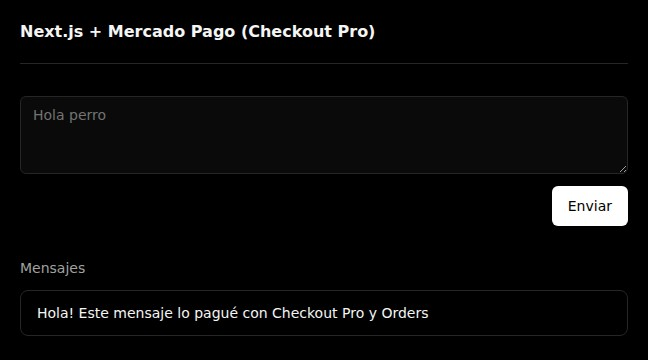
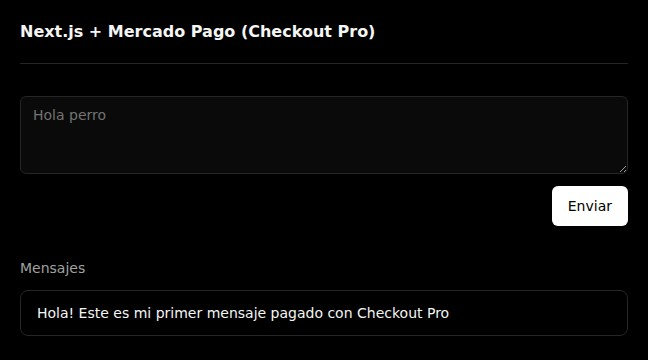
docs(checkout-pro): hablar de pagos en vez de orders
Orders es un detalle de implementación: los textos y comentarios hablan del pago y solo nombran Order donde aparece en el código o en el panel.

Changed region(s): [[0.1543, 0.8556, 0.7099, 0.8861]]

diff --git a/integraciones/checkout-pro/src/api.ts b/integraciones/checkout-pro/src/api.ts
@@ -17,11 +17,11 @@ const api = {
       cacheLife("max");
       cacheTag("messages");
 
-      // La búsqueda de orders acepta un rango de fechas de hasta un mes, así que buscamos las de los últimos 30 días
+      // La búsqueda acepta un rango de fechas de hasta un mes, así que buscamos los pagos de los últimos 30 días
       const end = new Date();
       const begin = new Date(end.getTime() - 30 * 24 * 60 * 60 * 1000);
 
-      // Mercado Pago es nuestra base de datos: cada mensaje es una order procesada (pagada) con el texto en su `description`
+      // Mercado Pago es nuestra base de datos: cada mensaje es un pago procesado (aprobado) con el texto en su `description`
       const {data = []} = await new Order(mercadopago).search({
         options: {
           external_reference: "message",
@@ -31,17 +31,17 @@ const api = {
         },
       });
 
-      // Devolvemos las orders como mensajes
+      // Devolvemos los pagos como mensajes
       return data.map((order) => ({id: order.id!, text: order.description!}));
     },
     async submit(text: Message["text"]) {
-      // Creamos la order incluyendo el monto, los items y la descripción. La información de `items` es standard de Mercado Pago. Orders no tiene `metadata`, así que guardamos el texto del mensaje en `description`.
+      // Creamos el pago incluyendo el monto, los items y la descripción. La información de `items` es standard de Mercado Pago. El texto del mensaje lo guardamos en `description`.
       const order = await new Order(mercadopago).create({
         body: {
-          // Checkout Pro usa orders `online` procesadas en modo `manual`: el comprador paga en Mercado Pago
+          // En Checkout Pro el pago es `online` y se procesa en modo `manual`: el comprador paga en Mercado Pago
           type: "online",
           processing_mode: "manual",
-          // Los montos de Orders son strings
+          // Los montos van como strings
           total_amount: "100.00",
           items: [
             {
@@ -52,11 +52,11 @@ const api = {
             },
           ],
           description: text,
-          // Marcamos la order como mensaje para poder buscarla después
+          // Marcamos el pago como mensaje para poder buscarlo después
           external_reference: "message",
           config: {
             online: {
-              // Cuando el pago se aprueba, Mercado Pago vuelve solo a nuestra aplicación, a la ruta que verifica la order
+              // Cuando el pago se aprueba, Mercado Pago vuelve solo a nuestra aplicación, a la ruta que verifica el pago
               success_url: `${process.env.APP_URL}/api/mercadopago`,
               auto_return: "approved",
             },

diff --git a/integraciones/checkout-pro/src/app/api/mercadopago/route.ts b/integraciones/checkout-pro/src/app/api/mercadopago/route.ts
@@ -5,7 +5,7 @@ import {type NextRequest, NextResponse} from "next/server";
 import {mercadopago} from "@/api";
 
 async function verify(id: string) {
-  // Obtenemos la order desde Mercado Pago para no confiar en lo que nos llega en la petición
+  // Obtenemos el pago desde Mercado Pago para no confiar en lo que nos llega en la petición
   const order = await new Order(mercadopago).get({id});
 
   // Si se procesó (el pago se aprobó), invalidamos los mensajes para mostrar el nuevo mensaje
@@ -14,7 +14,7 @@ async function verify(id: string) {
   }
 }
 
-// Mercado Pago redirige al comprador acá cuando el pago se aprueba, con el id de la order en `order_id`
+// Mercado Pago redirige al comprador acá cuando el pago se aprueba, con el id del pago en `order_id`
 export async function GET(request: NextRequest) {
   const id = request.nextUrl.searchParams.get("order_id");
 
@@ -31,7 +31,7 @@ export async function POST(request: Request) {
   // Obtenemos el cuerpo de la petición que incluye información sobre la notificación
   const body: {data?: {id: string}; type?: string} = await request.json();
 
-  // Solo nos interesan las notificaciones de orders, ignoramos el resto
+  // Solo nos interesan las notificaciones de pagos (`order`), ignoramos el resto
   if (body.type === "order" && body.data?.id) {
     await verify(body.data.id);
   }

diff --git a/integraciones/checkout-pro/README.md b/integraciones/checkout-pro/README.md
@@ -21,12 +21,12 @@ El usuario de la compradora también está en el [panel de desarrolladores](http
 [![Integrar pagos con Mercado Pago a una aplicación Next.js](https://img.youtube.com/vi/BUHUW7tAr_Y/maxresdefault.jpg)](https://www.youtube.com/watch?v=BUHUW7tAr_Y)
 
 > [!NOTE]
-> El video usa la API de Preferences, que Mercado Pago va a dar de baja. Este documento ya usa la API de Orders, así que el código cambia un poco, pero el flujo es el mismo.
+> El video usa una versión anterior de la API de Mercado Pago, así que el código cambia un poco, pero el flujo es el mismo.
 
 ## Índice
 
 1. [Revisando nuestra aplicación](#revisando-nuestra-aplicación)
-2. [Crear una order de pago](#crear-una-order-de-pago)
+2. [Crear el pago](#crear-el-pago)
 3. [Volver a la aplicación y recibir notificaciones](#volver-a-la-aplicación-y-recibir-notificaciones)
 4. [Verificar la autenticidad del pago](#verificar-la-autenticidad-del-pago)
 5. [Listar los mensajes](#listar-los-mensajes)
@@ -75,21 +75,21 @@ export default async function HomePage() {
 }
 ```
 
-## Crear una order de pago
+## Crear el pago
 
-Dentro de `/src/api.ts`, la función `submit` en `message` se encarga de crear una order de pago y devolver el checkout url (url de pago):
+Dentro de `/src/api.ts`, la función `submit` en `message` se encarga de crear el pago en Mercado Pago y devolver la URL del checkout (url de pago):
 
 ```ts
 const api = {
   message: {
     async submit(text: Message["text"]) {
-      // Creamos la order incluyendo el monto, los items y la descripción. La información de `items` es standard de Mercado Pago. Orders no tiene `metadata`, así que guardamos el texto del mensaje en `description`.
+      // Creamos el pago incluyendo el monto, los items y la descripción. La información de `items` es standard de Mercado Pago. El texto del mensaje lo guardamos en `description`.
       const order = await new Order(mercadopago).create({
         body: {
-          // Checkout Pro usa orders `online` procesadas en modo `manual`: el comprador paga en Mercado Pago
+          // En Checkout Pro el pago es `online` y se procesa en modo `manual`: el comprador paga en Mercado Pago
           type: "online",
           processing_mode: "manual",
-          // Los montos de Orders son strings
+          // Los montos van como strings
           total_amount: "100.00",
           items: [
             {
@@ -100,11 +100,11 @@ const api = {
             },
           ],
           description: text,
-          // Marcamos la order como mensaje para poder buscarla después
+          // Marcamos el pago como mensaje para poder buscarlo después
           external_reference: "message",
           config: {
             online: {
-              // Cuando el pago se aprueba, Mercado Pago vuelve solo a nuestra aplicación, a la ruta que verifica la order
+              // Cuando el pago se aprueba, Mercado Pago vuelve solo a nuestra aplicación, a la ruta que verifica el pago
               success_url: `${process.env.APP_URL}/api/mercadopago`,
               auto_return: "approved",
             },
@@ -119,13 +119,13 @@ const api = {
 }
 ```
 
-Podemos pensar a la order como un objeto que representa una orden de compra: algo que un usuario quiere comprar. Para Checkout Pro siempre es `type: "online"` con `processing_mode: "manual"`, y `total_amount` tiene que ser igual a la suma de los items.
+Podemos pensar al pago (Mercado Pago lo llama `Order`) como un objeto que representa una orden de compra: algo que un usuario quiere comprar. `total_amount` tiene que ser igual a la suma de los items.
 
-Orders no tiene un campo `metadata` como tenían las preferencias, así que guardamos el texto del mensaje en `description`. `description` acepta hasta 150 caracteres, por eso el `textarea` del formulario tiene `maxLength={150}`.
+El texto del mensaje lo guardamos en `description`, que acepta hasta 150 caracteres. Por eso el `textarea` del formulario tiene `maxLength={150}`.
 
 Con `auto_return: "approved"` Mercado Pago vuelve solo a nuestra aplicación cuando el pago se aprueba. Para eso necesita saber a dónde volver, así que también definimos `success_url`.
 
-Hay varias propiedades más que podemos agregar a la order. Datos del comprador, el vencimiento, los medios de pago permitidos, etc. Podés ver más [acá](https://www.mercadopago.com.ar/developers/es/reference/online-payments/checkout-pro/create-order/post).
+Hay varias propiedades más que podemos agregar al pago. Datos del comprador, el vencimiento, los medios de pago permitidos, etc. Podés ver más [acá](https://www.mercadopago.com.ar/developers/es/reference/online-payments/checkout-pro/create-order/post).
 
 ## Volver a la aplicación y recibir notificaciones
 
@@ -139,7 +139,7 @@ import {type NextRequest, NextResponse} from "next/server";
 import {mercadopago} from "@/api";
 
 async function verify(id: string) {
-  // Obtenemos la order desde Mercado Pago para no confiar en lo que nos llega en la petición
+  // Obtenemos el pago desde Mercado Pago para no confiar en lo que nos llega en la petición
   const order = await new Order(mercadopago).get({id});
 
   // Si se procesó (el pago se aprobó), invalidamos los mensajes para mostrar el nuevo mensaje
@@ -148,7 +148,7 @@ async function verify(id: string) {
   }
 }
 
-// Mercado Pago redirige al comprador acá cuando el pago se aprueba, con el id de la order en `order_id`
+// Mercado Pago redirige al comprador acá cuando el pago se aprueba, con el id del pago en `order_id`
 export async function GET(request: NextRequest) {
   const id = request.nextUrl.searchParams.get("order_id");
 
@@ -165,7 +165,7 @@ export async function POST(request: Request) {
   // Obtenemos el cuerpo de la petición que incluye información sobre la notificación
   const body: {data?: {id: string}; type?: string} = await request.json();
 
-  // Solo nos interesan las notificaciones de orders, ignoramos el resto
+  // Solo nos interesan las notificaciones de pagos (`order`), ignoramos el resto
   if (body.type === "order" && body.data?.id) {
     await verify(body.data.id);
   }
@@ -175,12 +175,12 @@ export async function POST(request: Request) {
 }
 ```
 
-Cuando el pago se aprueba, Mercado Pago redirige al comprador a `success_url` y le agrega a la URL el id de la order en `order_id`. Es lo primero que pasa después de pagar, así que el mensaje ya aparece cuando el comprador vuelve a la página de inicio.
+Cuando el pago se aprueba, Mercado Pago redirige al comprador a `success_url` y le agrega a la URL el id del pago en `order_id`. Es lo primero que pasa después de pagar, así que el mensaje ya aparece cuando el comprador vuelve a la página de inicio.
 
-Pero si el comprador cierra la pestaña antes de volver, nunca nos enteramos. Para eso está el webhook: Mercado Pago le avisa a nuestro servidor de cada cambio en la order, aunque el comprador no vuelva. Con Orders, el webhook se [configura en el panel](../../configuracion/webhook/README.md) con el evento `Order (Mercado Pago)` y la URL `<APP_URL>/api/mercadopago`.
+Pero si el comprador cierra la pestaña antes de volver, nunca nos enteramos. Para eso está el webhook: Mercado Pago le avisa a nuestro servidor de cada cambio en el pago, aunque el comprador no vuelva. El webhook se [configura en el panel](../../configuracion/webhook/README.md) con el evento `Order (Mercado Pago)` y la URL `<APP_URL>/api/mercadopago`.
 
 > [!IMPORTANT]
-> Las notificaciones llegan a la aplicación dueña de las credenciales con las que creamos la order, no a la que creaste vos. Las credenciales de prueba de Checkout Pro son las credenciales de producción de una aplicación `TestApp-…` que Mercado Pago crea en la cuenta vendedora de prueba, así que el webhook se configura en esa aplicación. Si no lo configurás, el mensaje igual aparece gracias a la vuelta del comprador.
+> Las notificaciones llegan a la aplicación dueña de las credenciales con las que creamos el pago, no a la que creaste vos. Las credenciales de prueba de Checkout Pro son las credenciales de producción de una aplicación `TestApp-…` que Mercado Pago crea en la cuenta vendedora de prueba, así que el webhook se configura en esa aplicación. Si no lo configurás, el mensaje igual aparece gracias a la vuelta del comprador.
 
 Para configurarlo con el MCP necesitás `mercadopago-mcp-vendedor` [autorizado con la cuenta vendedora de prueba](../../configuracion/mcp/README.md#autorizar-la-cuenta-vendedora-de-prueba). Después copiá este prompt en tu agente:
 
@@ -195,16 +195,16 @@ A mano, iniciá sesión en el [panel de desarrolladores](https://www.mercadopago
 
 ## Verificar la autenticidad del pago
 
-Tanto la vuelta del comprador como el webhook nos dan el ID de una order, pero cualquiera podría visitar esa URL o hacer un POST con un ID inventado. Por eso no confiamos en lo que nos llega: `verify` obtiene la order desde Mercado Pago con nuestras credenciales y solo si su `status` es `processed` (el pago se aprobó y se acreditó) invalida el tag `messages` para que se muestren los mensajes actualizados.
+Tanto la vuelta del comprador como el webhook nos dan el ID de un pago, pero cualquiera podría visitar esa URL o hacer un POST con un ID inventado. Por eso no confiamos en lo que nos llega: `verify` obtiene el pago desde Mercado Pago con nuestras credenciales y solo si su `status` es `processed` (el pago se aprobó y se acreditó) invalida el tag `messages` para que se muestren los mensajes actualizados.
 
 > [!NOTE]
 > La página es estática (`ensureStatic = "navigation"` hace que el build falle si algo la vuelve dinámica). `api.message.list` usa `"use cache"` con el tag `messages`. Como la verificación pasa en un Route Handler usamos `revalidateTag` con `{expire: 0}` para que la próxima visita ya vea el mensaje nuevo.
 
-De esta manera nos aseguramos de que la order exista y haya sido pagada.
+De esta manera nos aseguramos de que el pago exista y haya sido aprobado.
 
 ## Listar los mensajes
 
-No tenemos una base de datos: Mercado Pago ya guarda cada order con el texto en su `description`. Dentro de `/src/api.ts`, la función `list` en `message` busca las orders procesadas marcadas como mensaje (por eso usamos `external_reference: "message"` en la order) y las devuelve como mensajes:
+No tenemos una base de datos: Mercado Pago ya guarda cada pago con el texto en su `description`. Dentro de `/src/api.ts`, la función `list` en `message` busca los pagos procesados marcados como mensaje (por eso usamos `external_reference: "message"` al crearlos) y los devuelve como mensajes:
 
 ```ts
 const api = {
@@ -216,11 +216,11 @@ const api = {
       cacheLife("max");
       cacheTag("messages");
 
-      // La búsqueda de orders acepta un rango de fechas de hasta un mes, así que buscamos las de los últimos 30 días
+      // La búsqueda acepta un rango de fechas de hasta un mes, así que buscamos los pagos de los últimos 30 días
       const end = new Date();
       const begin = new Date(end.getTime() - 30 * 24 * 60 * 60 * 1000);
 
-      // Mercado Pago es nuestra base de datos: cada mensaje es una order procesada (pagada) con el texto en su `description`
+      // Mercado Pago es nuestra base de datos: cada mensaje es un pago procesado (aprobado) con el texto en su `description`
       const {data = []} = await new Order(mercadopago).search({
         options: {
           external_reference: "message",
@@ -230,16 +230,16 @@ const api = {
         },
       });
 
-      // Devolvemos las orders como mensajes
+      // Devolvemos los pagos como mensajes
       return data.map((order) => ({id: order.id!, text: order.description!}));
     },
   },
 };
 ```
 
-La búsqueda de orders pide un rango de fechas (`begin_date` y `end_date`) de hasta un mes, así que el muro muestra los mensajes de los últimos 30 días. Como `list` está cacheada, las fechas se calculan cada vez que invalidamos el tag `messages`, no en cada visita.
+La búsqueda pide un rango de fechas (`begin_date` y `end_date`) de hasta un mes, así que el muro muestra los mensajes de los últimos 30 días. Como `list` está cacheada, las fechas se calculan cada vez que invalidamos el tag `messages`, no en cada visita.
 
-Como cada mensaje es una order, tampoco se pueden duplicar: aunque Mercado Pago nos notifique varias veces la misma order, la búsqueda la devuelve una sola vez.
+Como cada mensaje es un pago, tampoco se pueden duplicar: aunque Mercado Pago nos notifique varias veces el mismo pago, la búsqueda lo devuelve una sola vez.
 
 En una aplicación real deberíamos verificar la firma secreta de las notificaciones, devolver errores más descriptivos y más, pero por simplicidad y tiempo te voy a dejar esa tarea a vos, podés ver más [acá](https://www.mercadopago.com.ar/developers/es/docs/checkout-pro-orders/notifications).
 
@@ -249,11 +249,11 @@ Ahora vamos a intentar de hacer el flujo completo de agregar un mensaje a nuestr
 
 En `E-mail para comprobante` poné el e-mail de la cuenta compradora de prueba. Si su usuario es `TESTUSER123456`, su e-mail es `test_user_123456@testuser.com`. Con cualquier otro e-mail Mercado Pago rechaza el pago con "Una de las partes con la que intentás hacer el pago es de prueba", porque la vendedora es de prueba y el comprador no.
 
-Cuando el pago se aprueba, Mercado Pago nos devuelve solo a la aplicación, que verifica la order y ya muestra el mensaje.
+Cuando el pago se aprueba, Mercado Pago nos devuelve solo a la aplicación, que verifica el pago y ya muestra el mensaje.
 
 ![image](./screenshots/mensaje-pagado.jpg)
 
-Excelente, nuestro pago fue aprobado, la order fue verificada y nuestro mensaje aparece en la lista ✨.
+Excelente, nuestro pago fue aprobado, lo verificamos y nuestro mensaje aparece en la lista ✨.
 
 ---
 

diff --git a/README.md b/README.md
@@ -7,7 +7,7 @@ En este respositorio vamos a aprender a integrar Mercado Pago en una aplicación
 Vamos a tener diferentes carpetas y aplicaciones para cada tipo de integración, así mantenemos el código simple y podemos enfocarnos en lo que nos interesa.
 
 1. Integraciones
-    1. [Checkout Pro](./integraciones/checkout-pro/README.md): Los usuarios van a tener que pagar para poder agregar un mensaje a la lista. Usamos Checkout Pro con la API de Orders para crear una order de pago y redirigir al usuario a Mercado Pago para que pueda pagar. Verificamos la order cuando el usuario vuelve a la aplicación y con un webhook que recibe las notificaciones.
+    1. [Checkout Pro](./integraciones/checkout-pro/README.md): Los usuarios van a tener que pagar para poder agregar un mensaje a la lista. Usamos Checkout Pro para crear un pago y redirigir al usuario a Mercado Pago para que pueda pagar. Verificamos el pago cuando el usuario vuelve a la aplicación y con un webhook que recibe las notificaciones.
     2. [Suscripciones](./integraciones/suscripciones/README.md): Los usuarios van a tener que suscribirse para poder ver contenido exclusivo. Usamos Suscripciones sin plan asociado con pago pendiente. Configuramos un webhook para recibir notificaciones de suscripción y actualizar su estado.
     3. [Checkout Bricks](./integraciones/checkout-bricks/README.md): Los usuarios van a pagar por un mensaje y ver su último pago. Usamos Checkout Bricks para tomar los datos de pago dentro de nuestra aplicación.
     4. [Split de pagos (Marketplace)](./integraciones/marketplace/README.md): Vamos a ser el intermediario entre un usuario de nuestra aplicación que quiere recibir mensajes en su muro y un usuario que quiere pagar para escribir en ese muro. Vamos a usar Checkout Pro con la integración de Marketplace para quedarnos con una ganancia por cada mensaje.

diff --git a/integraciones/suscripciones/README.md b/integraciones/suscripciones/README.md
@@ -113,7 +113,7 @@ const api = {
 
 Las suscripciones de pago pueden ser de 2 tipos:
 - Suscripciones con plan asociado: Consta de 2 pasos, primero crear el plan, el cual estipula el título, monto, descripción, etc. Y el segundo paso es crear la suscripción. El problema es que para hacer esto, necesitamos un `card_token_id` el que generalmente obtenemos mediante Checkout Bricks o la Checkout API (la cual no vamos a implementar acá), queremos redirigir al usuario a Mercado Pago para que pueda pagar, similar a lo que haríamos con una preferencia de pago.
-- Suscripciones sin plan asociado: Son suscripciones que se crean en el momento de pago, sin pasar por la creación de un plan. Al igual que las orders de Checkout Pro, nos devuelve una URL (`init_point`) para redirigir al usuario a Mercado Pago para completar el pago. Estas suscripciones pueden ser o de pago autorizado (necesitamos un `card_token_id`, lo cual no queremos ahora), o de pago pendiente para que el usuario complete el pago en Mercado Pago (justo lo que queremos).
+- Suscripciones sin plan asociado: Son suscripciones que se crean en el momento de pago, sin pasar por la creación de un plan. Al igual que en Checkout Pro, nos devuelve una URL (`init_point`) para redirigir al usuario a Mercado Pago para completar el pago. Estas suscripciones pueden ser o de pago autorizado (necesitamos un `card_token_id`, lo cual no queremos ahora), o de pago pendiente para que el usuario complete el pago en Mercado Pago (justo lo que queremos).
 
 Como te habrás dado cuenta, arriba estamos creando una suscripción sin plan asociado y de pago pendiente (status `pending`) y luego devolvemos el `init_point` y usamos esa URL para redirigir al usuario a Mercado Pago.
 

diff --git a/configuracion/crear-aplicacion/README.md b/configuracion/crear-aplicacion/README.md
@@ -21,7 +21,7 @@ Elegimos `Crear en el panel de integración`.
 En "Elegí una solución para integrar" vas a elegir la que quieras integrar (Checkout Bricks está dentro de `Checkout API`). Después, en `Otros datos`, le ponemos un nombre a la aplicación, aceptamos los términos y tocamos `Crear aplicación`.
 
 > [!NOTE]
-> En Checkout Pro te va a preguntar el `Tipo de API`. Elegí `API de Orders`, que es la opción por defecto y la que usa este repositorio. La `API de Preferences` va a ser descontinuada.
+> En Checkout Pro te va a preguntar el `Tipo de API`: dejá la opción por defecto, `API de Orders`.
 
 ![image](./screenshots/app-form.jpg)
 
